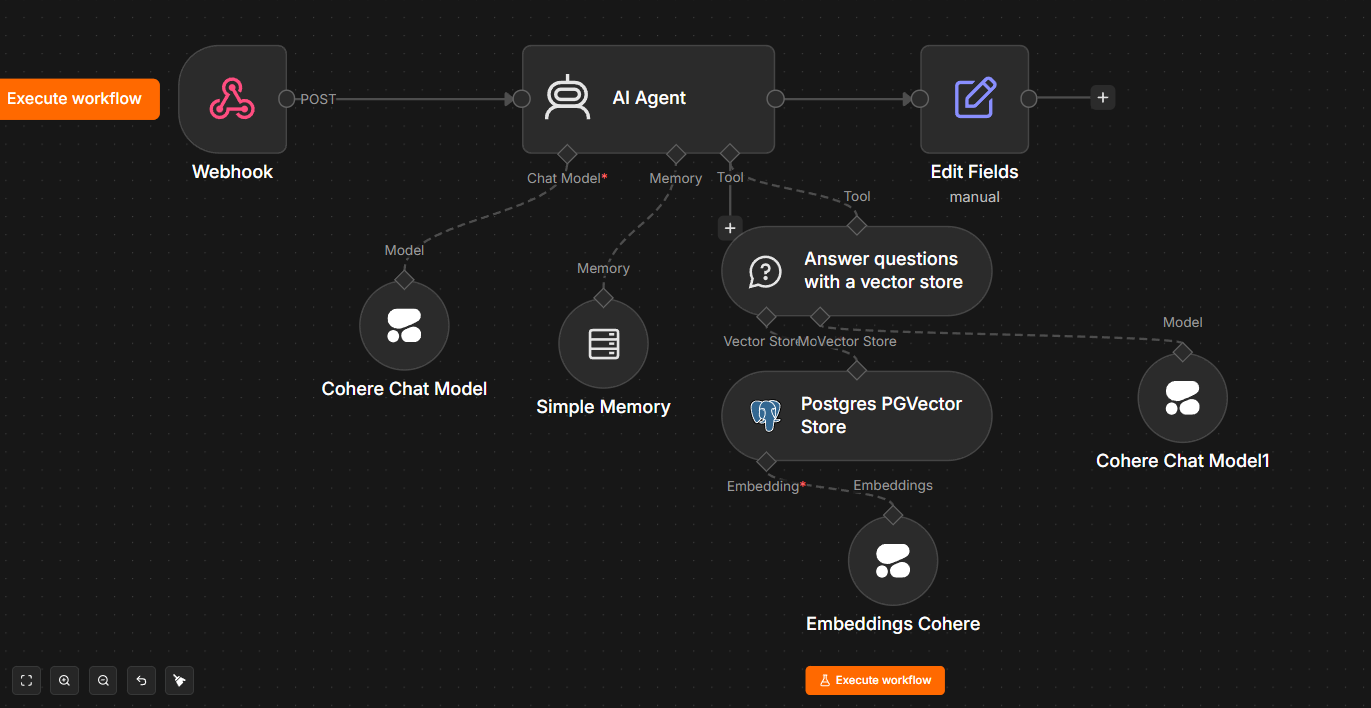
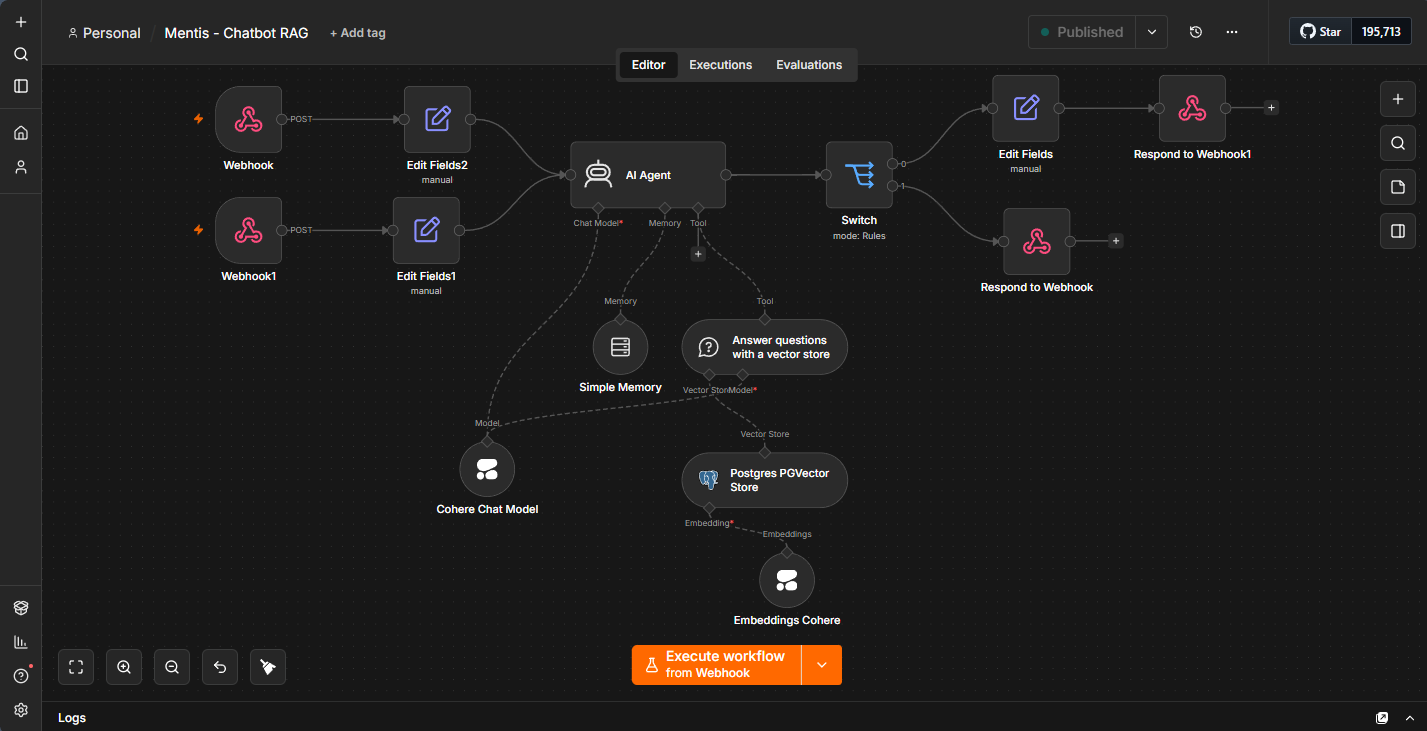
feat: README update

diff --git a/README.md b/README.md
@@ -6,7 +6,11 @@ Asistente virtual autónomo diseñado para la autogestión de información, encu
 ## 🚀 Acerca del Proyecto
 Mentis nació como un desafío técnico para resolver una necesidad real del ámbito clínico: optimizar la comunicación de normativas, horarios y encuadres psicoterapéuticos con los pacientes. Este proyecto me permitió profundizar la integración de mi formación en **Psicología con el desarrollo Frontend y la Inteligencia Artificial**.
 
-El objetivo principal fue crear a **Menti**, un asistente que no solo sea un recuperador de datos frío, sino una interfaz que mantenga la calidez y el respeto por el encuadre profesional. Incorpora una UX fluida mediante animaciones dinámicas que reducen la fricción cognitiva del usuario durante la espera de respuestas complejas.
+El objetivo principal fue crear a **Menti**, un asistente que no solo sea un recuperador de datos frío, sino una solución flexible y **omnicanal**. El sistema permite a los usuarios interactuar de forma indistinta a través de dos frentes integrados al mismo "cerebro" en la nube:
+* **Una Plataforma Web Moderna (React):** Ofrece una interfaz inmersiva, interactiva y responsiva ideal para consultas desde el sitio del consultorio.
+* **Un Canal Automatizado de Telegram:** Pensado para la mensajería instantánea del paciente desde su celular con una accesibilidad inmediata.
+
+Toda la lógica de Menti mantiene la calidez y el respeto por el encuadre profesional, incorporando una UX fluida mediante animaciones dinámicas que reducen la fricción cognitiva del usuario durante la espera de respuestas complejas.
 
 ## 🛠️ Stack Tecnológico
 | **Componente** | **Tecnologías y Librerías Utilizadas** |
@@ -21,6 +25,8 @@ El objetivo principal fue crear a **Menti**, un asistente que no solo sea un rec
 
 ## 🧠 Características Principales
 * **Recuperación Aumentada (RAG):** Conexión nativa a la base de datos vectorial para indexar y consultar dinámicamente los documentos de políticas de admisión, ausencias, aranceles y WhatsApp del consultorio.
+* **Cerebro Unificado Omnicanal:** Arquitectura centralizada que permite abastecer de manera simultánea a la plataforma Web y al bot de Telegram desde un mismo Agente de IA, garantizando consistencia en las respuestas del consultorio.
+* **Frontend 100% Responsivo:** Interfaz de usuario diseñada bajo estándares modernos de adaptabilidad, ofreciendo una experiencia fluida y optimizada tanto en dispositivos móviles (smartphones) como en escritorios de escritorio.
 * **UX Premium con GSAP:** Coreografía elástica en el Lobby para la eclosión orgánica del imagotipo y la transición limpia hacia el panel de mensajes.
 * **Foco Automático e Interactividad:** Retorno inmediato del enfoque (`focus`) al input de texto apenas el asistente finaliza la generación de respuesta, logrando una conversación continua.
 * **Spinner Elástico Personalizado:** Indicador de carga desarrollado mediante `@keyframes` puras en CSS para mejorar la experiencia de espera (*perceived performance*).
@@ -28,7 +34,7 @@ El objetivo principal fue crear a **Menti**, un asistente que no solo sea un rec
 ## 🏗️ Arquitectura del Flujo (n8n)
 La solución utiliza una **Cadena de Retorno (Retrieval QA Chain)** orquestada de forma visual en n8n. El agente recibe la duda del paciente, extrae los fragmentos contextuales (*chunks*) pertinentes de la base de datos en Neon, y genera una respuesta limpia libre de asteriscos crudos o alucinaciones.
 
-<img src="public/Workflow Mentis - Chatbot RAG.png" width="900" alt="Workflow Mentis - Chatbot RAG">
+<img src="public/Workflow Mentis - Chatbot RAG.png" width="900" alt="Workflow n8n Mentis - Chatbot RAG">
 
 ## 📂 Estructura del Repositorio
 * `/src`: Código fuente del frontend (Componentes de chat, lógica core de React y estilos).
@@ -37,16 +43,16 @@ La solución utiliza una **Cadena de Retorno (Retrieval QA Chain)** orquestada d
 * `/public/docs`: Base de conocimientos que alimenta el RAG (`politicas_mentis.txt`, manuales PDF).
 
 ## 💡 Desafíos Técnicos
-* **Fluidez Estructural:** Mantener el scroll perfectamente encapsulado en el área de conversación, logrando que la barra lateral y la cabecera queden fijas y estables.
-* **Control de Hooks en Renderizado Condicional:** Organización estricta de los hooks de React y efectos de GSAP para evitar errores en consola durante los estados de carga de la IA.
-* **Máscaras de Profundidad:** Aplicación de propiedades de difuminado (`mask-image`) en los bordes del chat para evitar cortes bruscos de avatares contra el encabezado.
+* **Ruteo Condicional Lógico en Entornos Stateless:** Uno de los mayores retos fue diseñar un nodo *Switch* omnicanal que no se rompiera debido a la limpieza de variables que hace n8n entre ejecuciones alternativas. Se resolvió implementando lógica condicional avanzada mediante funciones nativas de validación estática (`$if` junto con el método `.isExecuted`), logrando evaluar con éxito qué Webhook inició el hilo sin clavar errores críticos por "nodos no ejecutados".
+* **Estandarización de Estructuras de Datos Heterogéneas:** Sincronizar la entrada de datos de Telegram (que maneja objetos de chat nativos) con los JSON estructurados enviados desde la aplicación en React requirió un mapeo minucioso mediante nodos *Edit Fields*. Se encapsularon los parámetros de entrada (`chatInput`, `sessionId` y `channel`) bajo la misma jerarquía del objeto `body` para homogeneizar el consumo del Agente de IA.
+* **Pipeline de Ingestión Automatizada (ETL RAG):** Diseño y ejecución de un flujo secundario en n8n especializado en la inyección masiva de documentos hacia la base de datos en Neon. El proceso consume mediante peticiones HTTP un endpoint plano de configuración externa (Pastebin `/raw/`), procesa y segmenta jerárquicamente el contenido usando un *Default Data Loader*, genera los vectores semánticos con *Cohere Embeddings* y los almacena de forma estructurada en las tablas de *PostgreSQL (PGVector)*.
+
+<img src="public/Workflow Mentis - Inyección de Documentos.png" width="900" alt="Workflow Ingestión de Políticas RAG">
+
 * **Migración de Infraestructura RAG en la Nube:** Ante las restricciones de memoria del servidor inicial (Railway), se lideró la migración completa del backend de n8n hacia Hugging Face Spaces. Esto implicó la reconfiguración y el aprovisionamiento de cero de las variables de entorno, credenciales de APIs (Cohere) y la persistencia de datos vectoriales (Neon/PostgreSQL) en un nuevo entorno virtualizado.
-* **Pipeline de Ingestión Automatizada (ETL RAG) con Pastebin:** Diseño de un flujo secundario en n8n para la vectorización y normalización de las políticas del consultorio. El proceso consume de manera eficiente un endpoint plano en Pastebin (`/raw/`) simulando una API externa a través de un nodo *HTTP Request*, segmenta el contenido con un *Default Data Loader*, genera los vectores con los modelos de embeddings de *Cohere* y los almacena de forma estructurada en la base de datos vectorial de *Postgres (PGVector)* dentro de Neon.
-
-<img src="public/Workflow Ingestión de Políticas RAG.png" width="900" alt="Workflow Ingestión de Políticas RAG">
-
-* **Sincronización de Entornos y Gestión de Caché (Vite + Vercel):** Resolución de un conflicto crítico de persistencia de variables en el Frontend (`CORS / Failed to fetch`). El desafío consistió en depurar el ciclo de vida del *Build* de Vite y el almacenamiento en caché de Vercel, forzando compilaciones limpias (*Clear Cache and Deploy*) para purgar variables residuales e inyectar dinámicamente los nuevos endpoints de producción.
-* **Seguridad y Desacoplamiento de Credenciales (Git/GitHub):** Saneamiento del árbol de Git mediante el uso de comandos avanzados de la terminal (`git rm --cached`) para desvincular archivos de entorno (`.env`) históricos que persistían de forma invisible en el repositorio, galarantizando el cumplimiento de las buenas prácticas de seguridad e integridad del código.
+* **Fluidez Estructural y Control de Hooks:** Mantener el scroll perfectamente encapsulado en el área de conversación, logrando que la barra lateral y la cabecera queden fijas. Organización estricta de los hooks de React y efectos de GSAP para evitar errores en consola durante los estados de carga de la IA.
+* **Sincronización de Entornos (Vite + Vercel):** Resolución de conflictos de caché e inyección dinámica de endpoints mediante la purga y recompilación limpia de variables de entorno en producción.
+* **Seguridad de Credenciales (Git/GitHub):** Saneamiento profundo del árbol de Git mediante comandos avanzados de terminal (`git rm --cached`) para remover históricos de archivos `.env` que persistían de forma invisible en el repositorio.
 
 ## 📽️ Demo Visual
 